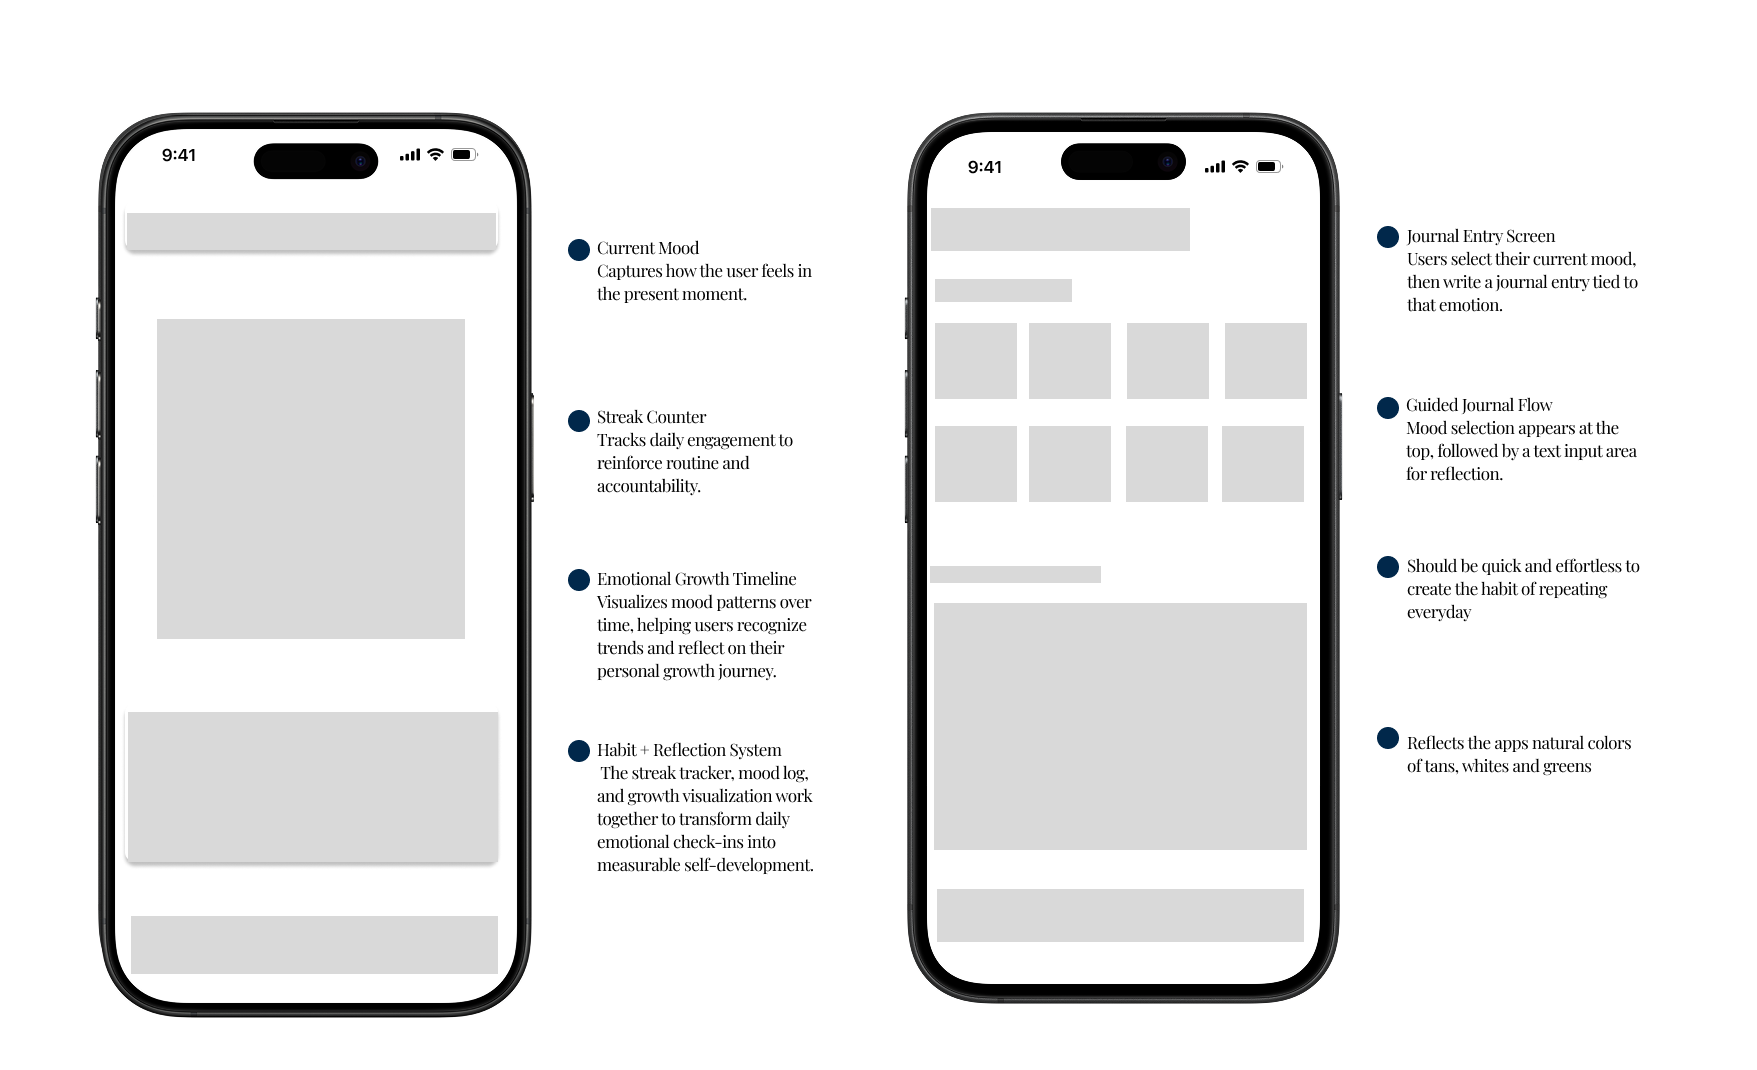
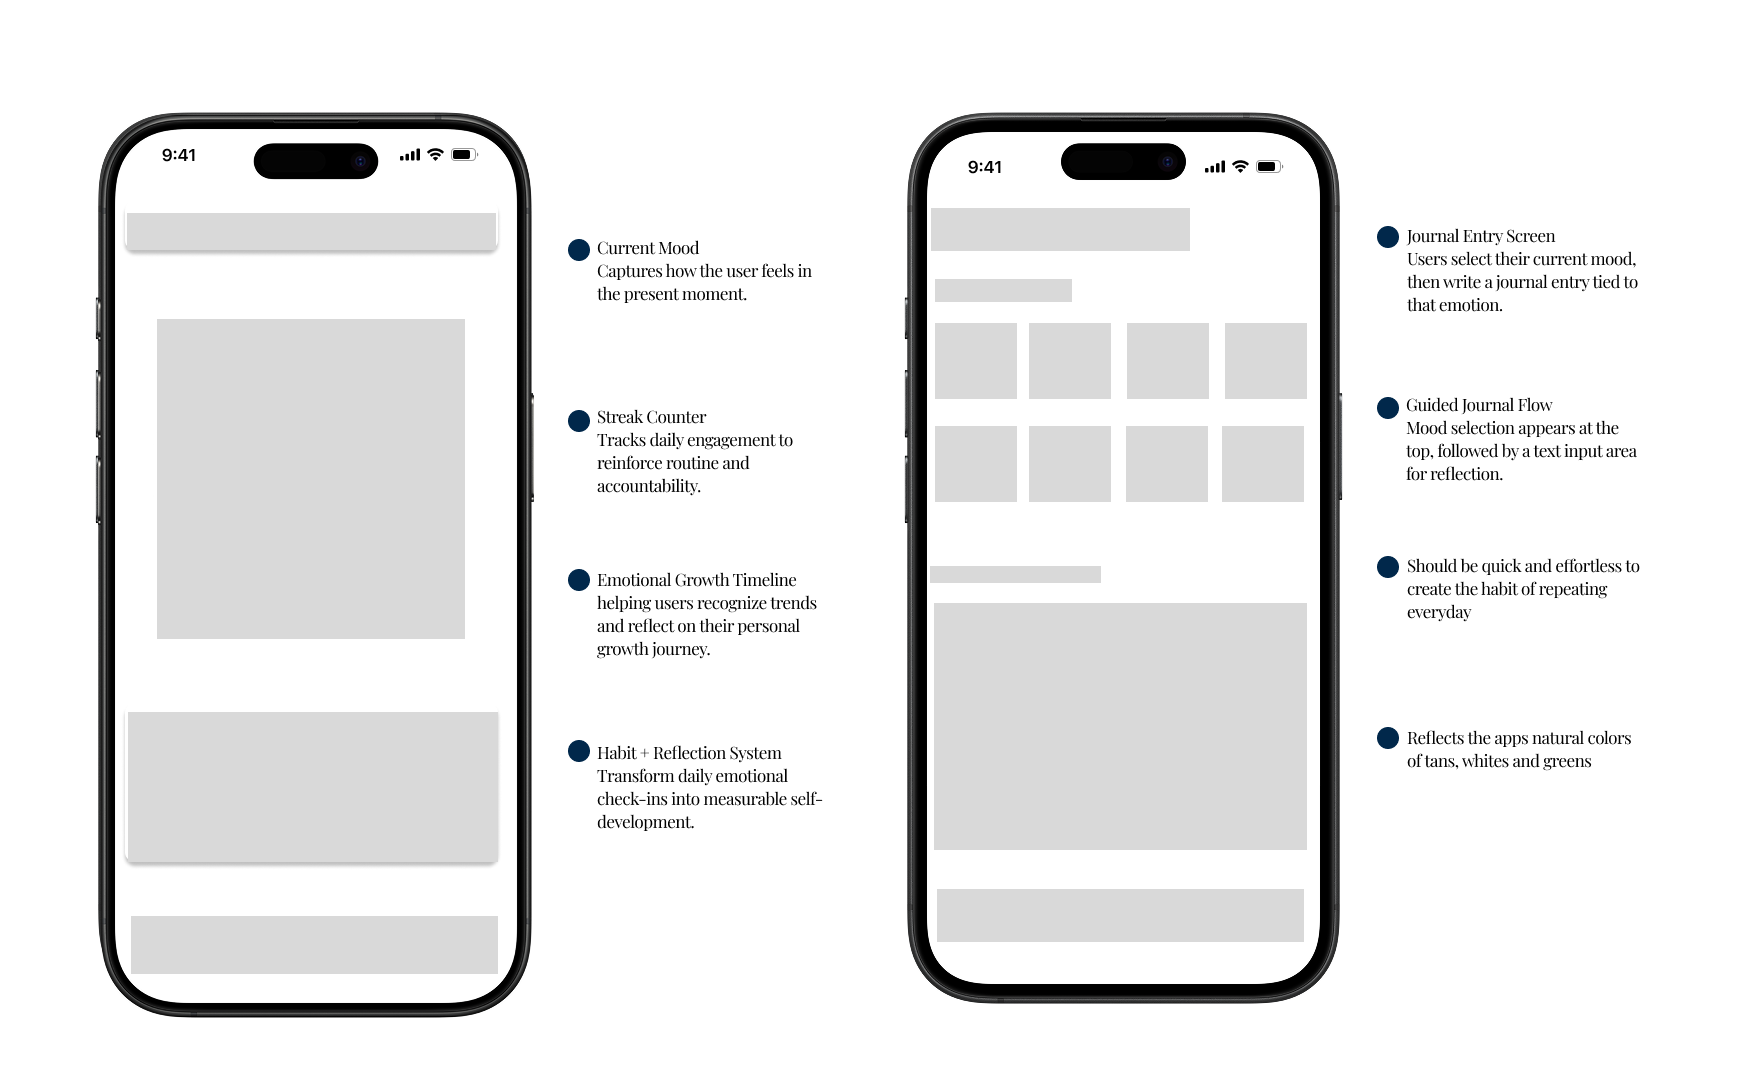
case study refresh

Changed region(s): [[0.3381, 0.6785, 0.461, 0.8327], [0.3381, 0.5243, 0.461, 0.6477], [0.7991, 0.6785, 0.922, 0.7402]]

diff --git a/script.js b/script.js
@@ -182,6 +182,7 @@ document.addEventListener("DOMContentLoaded", function () {
         title: "Mood Garden",
         subtitle: "Mood Tracking app",
         designImage: "mood-garden-screens.png",
+        wireframesImage: "mood-garden-wireframes.png",
         role: "UX/UI Designer",
         timeline: "4 months",
         tools: "Figma, React Native, User Research",
@@ -335,7 +336,7 @@ document.addEventListener("DOMContentLoaded", function () {
                 <h2>Ideation</h2>
                 <p>${caseStudy.ideation}</p>
                 <div class="case-study-image">
-                    <img src="assets/img/${projectId}-wireframes.png" alt="${
+                    <img src="assets/img/${caseStudy.wireframesImage || projectId + "-wireframes.png"}" alt="${
         caseStudy.title
       } wireframes">
                 </div>
